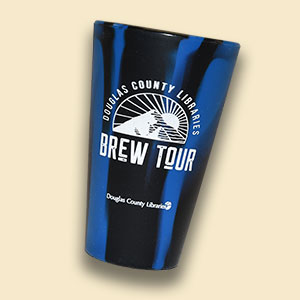
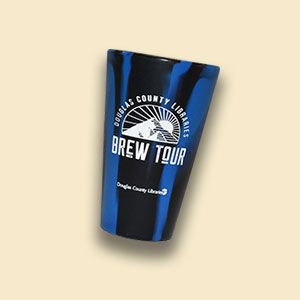
all images and prizes in place

diff --git a/brew-tour/index.html b/brew-tour/index.html
@@ -80,6 +80,7 @@ e.async=true;var t=document.getElementsByTagName("script")[0];t.parentNode.inser
 <script id="ze-snippet" src="https://static.zdassets.com/ekr/snippet.js?key=72a1019f-18b4-4f9c-ad65-4b7aa501f1d8"> </script> 
 <!-- End of Zendesk Widget script -->
 <!-- InstanceBeginEditable name="head" -->
+<link rel="stylesheet" href="https://cdnjs.cloudflare.com/ajax/libs/baguettebox.js/1.8.1/baguetteBox.min.css">
 <style>
 @font-face {
 	font-family: 'The Farmer Original';
@@ -129,6 +130,51 @@ ul.farmer > li {
 	white-space: nowrap;
 	margin-left: 5px;
 }
+polyline, g {
+	stroke: #666;
+}
+#baguetteBox-overlay .full-image figcaption {
+	font-family: "Ubuntu", arial, sans-serif;
+	font-size: 20px;
+	font-weight: 400;
+	display: block;
+	position: absolute;
+	bottom: auto;
+	width: 100%;
+	text-align: center;
+	line-height: inherit;
+	white-space: normal;
+	color: #333;
+	background-color: transparent;
+	padding: 10px 10%;
+}
+#baguetteBox-overlay .full-image img {
+	-moz-box-shadow: none;
+	box-shadow: none;
+}
+.tz-gallery .lightbox img {
+	width: inherit;
+	border-radius: 0;
+	position: inherit;
+}
+.tz-gallery .lightbox::after, .tz-gallery .lightbox::before {
+	display: none;
+}
+.lightbox.null {
+	display: none;
+}
+.custom-container {
+	max-width: 825px;
+	margin: 0 auto;
+}
+.lightbox.lightbox-group {
+	display: flex;
+	justify-content: flex-end;
+	flex-wrap: wrap;
+}
+.hover.group {
+	margin: 5px;
+}
 .partners {
 	display: flex;
 	flex-direction: column;
@@ -138,6 +184,29 @@ ul.farmer > li {
 }
 .partner-list {
 	padding: 0 15px;
+}
+.tz-gallery .lightbox img.prizes {
+	border-radius: 50%;
+	border: 3px solid #2f2e33;
+	transition: transform .2s ease-in-out;
+}
+.tz-gallery .lightbox img.prizes:hover, .tz-gallery .lightbox img.prizes:focus {
+	transform: rotate(10deg);
+}
+.points {
+	font-family: "Larosa Bold", sans-serif;
+	color: #000;
+	border: 3px solid #2f2e33;
+	max-width: 255px;
+	margin: -30px auto 0 auto;
+	background: #d79e66;
+	font-size: 18px;
+	padding: 15px 0;
+	position: relative;
+	z-index: 1000;
+	text-transform: uppercase;
+	border-radius: 3px;
+	line-height: 24px;
 }
 .table.table-bordered.table-condensed {
 	background: rgba(255,255,255,.2);
@@ -234,6 +303,14 @@ h4.larosa {
 	max-width: 1030px;
 	margin: 0 auto;
 	padding: 60px 15px 80px;
+}
+.prize-box {
+	padding: 10px;
+}
+.prize-wrapper {
+	display: flex;
+	flex-wrap: wrap;
+	justify-content: center;
 }
 .partner-row {
 	background: #d79e66;
@@ -536,46 +613,52 @@ height="0" width="0" style="display:none;visibility:hidden"></iframe>
     </div>
   </div>
   <div id="prizes" class="row prizes-row">
-    <div class="prizes-container">
-      <div class="text-center"><img class="center-block img-responsive" src="mountains.png" alt="">
+    <div class="prizes-container text-center">
+      <div><img class="center-block img-responsive" src="mountains.png" alt="">
         <h2 class="larosa">Prizes & Rewards</h2>
         <h5 class="black">Gather points and unlock rewards by logging your visits to each participating partner brewery and coffee shop. Each visit also earns you one entry into our Grand Prize drawing for a Happy Brew Year&mdash;one premium stainless steel growler filled twice by each participating brewery plus free coffee.</h5>
         <div class="black padding-bottom-15 margin-lg-50">You may also earn additional points and unique rewards by attending DCL-hosted Brew Tour events at our libraries and select brewery locations.** Have fun with Harry Potter Trivia, Craft & Sip events, Books & Authors Bingo, Beer Games, and more.</div>
       </div>
-      <!--<div class="text-center"><a href="https://douglascountylibraries.evanced.info/signup/list?nomobile=1&kw=brew+tour&df=list&lib=all&nd=365" target="_blank" class="btn btn-primary btn-custom-alt">Event Signup</a></div>-->
-      <div class="table-row">
-        <div class="text-center large-text padding-bottom-15"><i>5 points each location visit<br>
-          10 points each event attended</i> </div>
-        <div class="table-responsive">
-          <table class="table table-bordered table-condensed" width="100%" cellspacing="0" cellpadding="0" border="0">
-            <tbody>
-              <tr>
-                <td>Registration</td>
-                <td>Lanyard and Brew Card</td>
-              </tr>
-              <tr>
-                <td>50 Points</td>
-                <td>Brew Tour Silipint</td>
-              </tr>
-              <tr>
-                <td>75 Points</td>
-                <td>Brew Tour T-shirt</td>
-              </tr>
-              <tr>
-                <td>100 Points</td>
-                <td>Brew Tour Hoodie</td>
-              </tr>
-            </tbody>
-          </table>
+      <div class="large-text"><a class="black" href="https://dclibraries.beanstack.org/reader365" target="_blank">Register now</a> and receive a Brew Tour Lanyard and Brew Card.</div>
+      <div class="large-text padding-bottom-15"><i>5 points each location visit<br>
+        10 points each event attended</i> </div>
+      <div class="tz-gallery">
+        <div class="prize-wrapper">
+          <div class="prize-box"><a class="lightbox" href="silipint-large.png"> <img class="prizes" src="silipint-small.jpg" alt="Brew Tour Silipint"></a>
+            <div class="points">50 Points:<br>
+              Brew Tour Silipint</div>
+          </div>
+          <div class="prize-box"><a class="lightbox" href="tee-large.png"> <img class="prizes" src="tee-small.jpg" alt="Brew Tour T-shirt"></a>
+            <div class="points">75 Points:<br>
+              Brew Tour T-shirt</div>
+          </div>
+          <div class="prize-box"><a class="lightbox" href="hoodie-large.png"> <img class="prizes" src="hoodie-small.jpg" alt="Brew Tour Hoodie"></a>
+            <div class="points">100 Points:<br>
+              Brew Tour Hoodie</div>
+          </div>
         </div>
-        <div class="padding-top-15 text-center"><i>**Brew Tour rewards available for pickup at your nearest DCL location.</i></div>
-        <h4 class="black larosa text-center">Bean There Coffee Challenge</h4>
-        <div class="text-center">Visit all participating coffee shops and attend our exclusive coffee event to earn another faBREWlous perk, a stainless steel book-lovers travel tumbler.</div>
       </div>
+      
+      <!--<div class="text-center"><a href="https://douglascountylibraries.evanced.info/signup/list?nomobile=1&kw=brew+tour&df=list&lib=all&nd=365" target="_blank" class="btn btn-primary btn-custom-alt">Event Signup</a></div>-->
+      
+      <div class="padding-top-30">
+        <h2 class="no-margin black larosa">Bean There</h2>
+        <h3 class="no-margin black larosa">Coffee Challenge</h3>
+        <div class="tz-gallery">
+          <div class="prize-wrapper">
+            <div class="prize-box"><a class="lightbox" href="tumbler-large.png"> <img class="prizes" src="tumbler-small.jpg" alt="Book Lovers Travel Tumbler"></a>
+              <div class="points">Book Lovers<br>
+                Travel Tumbler</div>
+            </div>
+          </div>
+        </div>
+        <h5 class="black margin-lg-100">Visit all participating coffee shops and attend our exclusive coffee event to earn another faBREWlous perk, a stainless steel book-lovers travel tumbler.**</h5>
+      </div>
+      <div class="padding-top-15"><i>**Brew Tour rewards available for pickup at your nearest DCL location.</i></div>
     </div>
   </div>
   <div id="partners" class="row partner-row">
-    <div class="partner-container"><img src="hops-wheat.png" class="img-responsive center-block">
+    <div class="partner-container"><img src="hops-wheat.png" alt="" class="img-responsive center-block">
       <h2 class="larosa text-center">Brew Tour Partners</h2>
       <div class="partners">
         <ul class="farmer list-unstyled">
@@ -664,6 +747,13 @@ height="0" width="0" style="display:none;visibility:hidden"></iframe>
   </div>
 </div>
 <!-- InstanceBeginEditable name="scripts" --> 
+<script src="https://cdnjs.cloudflare.com/ajax/libs/baguettebox.js/1.8.1/baguetteBox.min.js"></script> 
+<script>
+    baguetteBox.run('.tz-gallery', {
+        buttons: true,
+        overlayBackgroundColor: 'rgba(255,255,255,0.8)'
+    });
+</script> 
 <script>
 $(function () {
   $('[data-toggle="popover"]').popover()

diff --git a/build/index.html b/build/index.html
@@ -589,7 +589,7 @@ height="0" width="0" style="display:none;visibility:hidden"></iframe>
           <div class="card">
             <div class="info">
               <h5 class="title">August 2022</h5>
-              <div> <a class="lightbox" href="steel-one.jpg"> <img class="left-image hover" src="steel-one-thumb.jpg" alt="Groundbreaking"></a></div>
+              <div> <a class="lightbox" href="steel-one.jpg"> <img class="left-image hover" src="steel-one-thumb.jpg" alt="Steel Work"></a></div>
               <div>Structural steel construction begins.</div>
             </div>
           </div>
